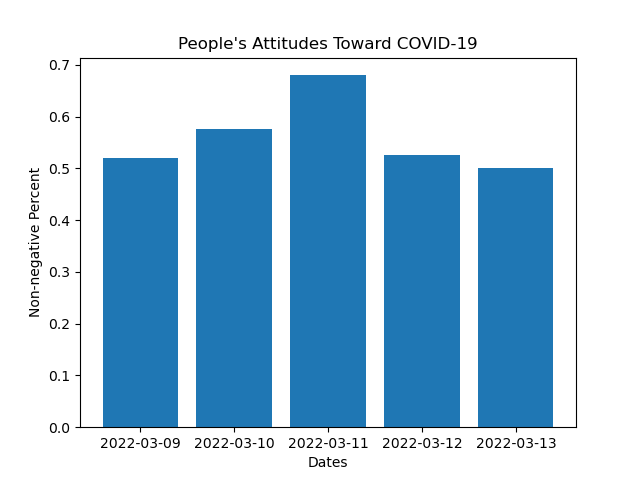
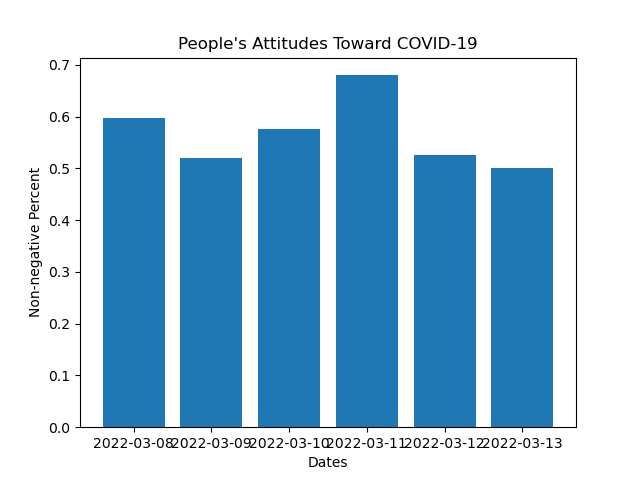
u proj

Changed region(s): [[0.125, 0.1562, 0.875, 0.9375]]

diff --git a/Project/use_api_preprocess.py b/Project/use_api_preprocess.py
@@ -75,7 +75,7 @@ def add_tweets_data_to_cases():
     df_cases = pd.read_csv('WHO-COVID-19-global-data.csv')
     # ----------------------------------------
     # CHANGE start_day
-    start_day = '2022-03-09'
+    start_day = '2022-03-08'
     # CHANGE end_day
     end_day = '2022-03-13'
     # ----------------------------------------
